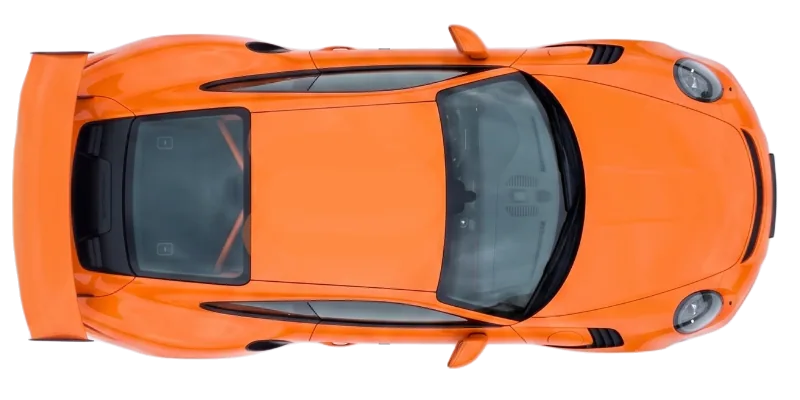
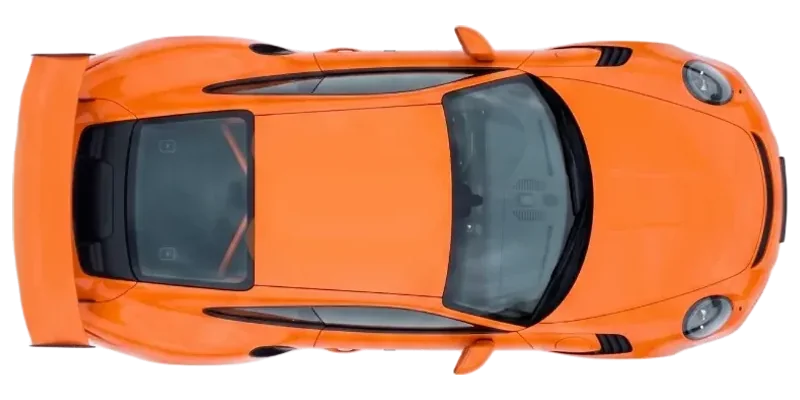
Normalize all vehicle art to the documented 97% rule
The 97%-of-canvas-length rule was documented in js/art.js and the art
spec but never enforced, so the shipped assets drifted from it — car
nose positions ranged 87.9%-99.9% of canvas width. Since the hero light
overlay anchors to the nose, that spread is what made the glows sit
correctly on classic.webp and drift on everything else.

- tools/normalize-car-art.mjs crops to the vehicle, scales to 97% of
  canvas length preserving aspect (boxy vehicles cap at 97% height so
  nothing is ever stretched), and re-centres. --check reports without
  writing, so the spec is now executable rather than prose and a future
  upload can be checked instead of trusted.
- 22 of 54 files were off spec and rewritten; the other 32 were already
  correct and left byte-identical rather than churned through a lossy
  re-encode. Car nose spread tightened to 94%-98.5%.
- Regenerated js/car-art.data.js against the normalized art.

The residual spread is correct rather than leftover drift: capping wide
vehicles on height means a wide car legitimately stops short of 97%
width (the five airtails and classic.webp). That is why the measured
anchors stay load-bearing instead of being replaced by normalization -
the two fixes compose.

WebP quality 85 chosen by measurement, not feel: against a q95 reference
it differs by a mean of 1.0/255 per channel, invisible at the ~130px a
car renders at, while keeping the set at 2.2MB against 2.1MB before. q92
[…]

Changed region(s): [[0.0312, 0.06, 1.0, 0.96], [0.0, 0.21, 0.0312, 0.33], [0.0, 0.36, 0.0312, 0.39]]

diff --git a/js/car-art.data.js b/js/car-art.data.js
@@ -16,7 +16,7 @@ export const CAR_ART_GEOMETRY = {
   'assets/cars/hero-airtail-purple-yellow.webp': { nose: 94.1, tail: 5.9, fTop: 8.8, fBot: 90.3, rTop: 7.8, rBot: 91.8 },
   'assets/cars/hero-airtail-red.webp': { nose: 94, tail: 5.9, fTop: 9, fBot: 90, rTop: 8, rBot: 91.8 },
   'assets/cars/hero-airtail-stripe.webp': { nose: 94, tail: 5.9, fTop: 9, fBot: 90, rTop: 8, rBot: 91.8 },
-  'assets/cars/hero-canopy-green.webp': { nose: 96, tail: 4.3, fTop: 13.5, fBot: 85, rTop: 8.5, rBot: 90 },
+  'assets/cars/hero-canopy-green.webp': { nose: 98.4, tail: 1.5, fTop: 12.3, fBot: 87.8, rTop: 7, rBot: 92.8 },
   'assets/cars/hero-classic-blue-stripe.webp': { nose: 98.4, tail: 1.5, fTop: 8.8, fBot: 90.3, rTop: 11.5, rBot: 88.8 },
   'assets/cars/hero-classic-cream.webp': { nose: 98.4, tail: 1.5, fTop: 13.3, fBot: 87.3, rTop: 13.3, rBot: 87.5 },
   'assets/cars/hero-classic-white-green.webp': { nose: 98.4, tail: 1.5, fTop: 12, fBot: 86.5, rTop: 15.8, rBot: 84 },
@@ -34,34 +34,34 @@ export const CAR_ART_GEOMETRY = {
   'assets/cars/hero-sedan-green.webp': { nose: 98.4, tail: 1.5, fTop: 15.8, fBot: 85.5, rTop: 16, rBot: 85.5 },
   'assets/cars/hero-sports-cyan.webp': { nose: 98.4, tail: 1.5, fTop: 13.3, fBot: 86, rTop: 12.3, rBot: 87.8 },
   'assets/cars/hero-spyder-blue.webp': { nose: 98.4, tail: 1.5, fTop: 11.8, fBot: 88.3, rTop: 11.5, rBot: 88.5 },
-  'assets/cars/library-sedans-1785067674835-12-orange-coupe.webp': { nose: 97.1, tail: 1.5, fTop: 12.5, fBot: 85.3, rTop: 12.5, rBot: 85.5 },
-  'assets/cars/library-sedans-1785067674835-13-red-hatch.webp': { nose: 88.3, tail: 11.6, fTop: 11.8, fBot: 88, rTop: 11.5, rBot: 88.3 },
-  'assets/cars/library-sedans-1785067674835-14-green-hatch.webp': { nose: 87.9, tail: 11.9, fTop: 13, fBot: 87, rTop: 13, rBot: 87 },
+  'assets/cars/library-sedans-1785067674835-12-orange-coupe.webp': { nose: 98.4, tail: 1.5, fTop: 13, fBot: 86.8, rTop: 13, rBot: 87 },
+  'assets/cars/library-sedans-1785067674835-13-red-hatch.webp': { nose: 97.9, tail: 2, fTop: 2.3, fBot: 98, rTop: 2, rBot: 98 },
+  'assets/cars/library-sedans-1785067674835-14-green-hatch.webp': { nose: 98.4, tail: 1.5, fTop: 3, fBot: 97.3, rTop: 3, rBot: 97.3 },
   'assets/cars/library-sedans-1785067674835-15-green-coupe.webp': { nose: 98.4, tail: 1.5, fTop: 12.8, fBot: 87.8, rTop: 19.3, rBot: 81 },
-  'assets/cars/library-sedans-1785067674835-5-rust-weathered.webp': { nose: 96.9, tail: 3, fTop: 16.8, fBot: 84.8, rTop: 17, rBot: 84.5 },
-  'assets/cars/library-sedans-1785067674835-6-police.webp': { nose: 96.9, tail: 3, fTop: 16.8, fBot: 84.8, rTop: 17, rBot: 84.5 },
-  'assets/cars/library-sedans-1785067674835-7-orange-suv.webp': { nose: 97.5, tail: 2.4, fTop: 8.3, fBot: 91.5, rTop: 9.5, rBot: 88.8 },
+  'assets/cars/library-sedans-1785067674835-5-rust-weathered.webp': { nose: 98.4, tail: 1.5, fTop: 15.8, fBot: 85.8, rTop: 16, rBot: 85.5 },
+  'assets/cars/library-sedans-1785067674835-6-police.webp': { nose: 98.4, tail: 1.5, fTop: 15.8, fBot: 85.8, rTop: 16, rBot: 85.5 },
+  'assets/cars/library-sedans-1785067674835-7-orange-suv.webp': { nose: 98.4, tail: 1.5, fTop: 7.5, fBot: 92.3, rTop: 9, rBot: 89.5 },
   'assets/cars/traffic-sedan-13.webp': { nose: 98.3, tail: 1.6, fTop: 16.5, fBot: 83.5, rTop: 15.8, rBot: 84 },
   'assets/cars/traffic-sedan-25.webp': { nose: 98.4, tail: 1.5, fTop: 14.2, fBot: 83.8, rTop: 14, rBot: 84 },
   'assets/cars/traffic-sedan-28.webp': { nose: 98.4, tail: 1.5, fTop: 14.2, fBot: 83.8, rTop: 14, rBot: 84 },
   'assets/cars/traffic-sedan-6.webp': { nose: 98.3, tail: 1.6, fTop: 9.8, fBot: 89.5, rTop: 9, rBot: 90.3 },
   'assets/cars/traffic-sedan-7.webp': { nose: 98.3, tail: 1.6, fTop: 13, fBot: 86.8, rTop: 13.3, rBot: 85.8 },
-  'assets/cars/traffic-sedan-new-lightblue.webp': { nose: 96.8, tail: 3.1, fTop: 19, fBot: 81.3, rTop: 18.3, rBot: 81.5 },
-  'assets/cars/traffic-truck-1.webp': { nose: 99.9, tail: 0, fTop: 5.8, fBot: 90.8, rTop: 0, rBot: 99.8 },
-  'assets/cars/traffic-truck-2.webp': { nose: 99.9, tail: 0, fTop: 5, fBot: 94, rTop: 0, rBot: 99.3 },
-  'assets/cars/traffic-truck-3.webp': { nose: 99.8, tail: 0, fTop: 0.5, fBot: 98.8, rTop: 8.8, rBot: 91 },
-  'assets/cars/traffic-truck-4.webp': { nose: 99.9, tail: 0.1, fTop: 9.5, fBot: 93.5, rTop: 15.5, rBot: 86 },
-  'assets/cars/traffic-truck-5.webp': { nose: 99.9, tail: 0, fTop: 0, fBot: 99.8, rTop: 8.3, rBot: 92 },
-  'assets/cars/traffic-truck-6.webp': { nose: 99.8, tail: 0, fTop: 36.3, fBot: 64.8, rTop: 3.5, rBot: 97.3 },
-  'assets/cars/traffic-truck-7.webp': { nose: 99.9, tail: 0, fTop: 42.8, fBot: 56.8, rTop: 3.5, rBot: 96 },
-  'assets/cars/traffic-truck-8.webp': { nose: 99.9, tail: 0.4, fTop: 20.8, fBot: 78, rTop: 4, rBot: 95.3 },
+  'assets/cars/traffic-sedan-new-lightblue.webp': { nose: 98.4, tail: 1.5, fTop: 18.3, fBot: 82.5, rTop: 17.5, rBot: 83 },
+  'assets/cars/traffic-truck-1.webp': { nose: 98.4, tail: 1.5, fTop: 7, fBot: 89.5, rTop: 1.5, rBot: 98.3 },
+  'assets/cars/traffic-truck-2.webp': { nose: 98.4, tail: 1.5, fTop: 6.5, fBot: 92.8, rTop: 1.5, rBot: 97.8 },
+  'assets/cars/traffic-truck-3.webp': { nose: 98.4, tail: 1.5, fTop: 2.3, fBot: 97.5, rTop: 10.3, rBot: 90 },
+  'assets/cars/traffic-truck-4.webp': { nose: 98.4, tail: 1.6, fTop: 10.8, fBot: 92.3, rTop: 16.5, rBot: 85 },
+  'assets/cars/traffic-truck-5.webp': { nose: 98.4, tail: 1.5, fTop: 1.5, fBot: 98.3, rTop: 9.5, rBot: 90.8 },
+  'assets/cars/traffic-truck-6.webp': { nose: 98.4, tail: 1.6, fTop: 36.8, fBot: 64.3, rTop: 4.8, rBot: 96 },
+  'assets/cars/traffic-truck-7.webp': { nose: 98.4, tail: 1.5, fTop: 43, fBot: 56.8, rTop: 4.8, rBot: 94.8 },
+  'assets/cars/traffic-truck-8.webp': { nose: 98.3, tail: 1.6, fTop: 21.5, fBot: 77, rTop: 5.3, rBot: 93.8 },
   'assets/cars/traffic-truck-new-rusty.webp': { nose: 98.4, tail: 1.5, fTop: 5.5, fBot: 94.3, rTop: 6, rBot: 95 },
-  'assets/cars/traffic-truck-new-white.webp': { nose: 97, tail: 2.9, fTop: 5.3, fBot: 94.5, rTop: 6.5, rBot: 93.3 },
+  'assets/cars/traffic-truck-new-white.webp': { nose: 95.6, tail: 4.3, fTop: 6.8, fBot: 93.3, rTop: 7.8, rBot: 92 },
   'assets/cars/traffic-truck-new.webp': { nose: 98.4, tail: 1.5, fTop: 10.3, fBot: 88, rTop: 10.3, rBot: 88 },
-  'assets/cars/truck-flatbed-green.webp': { nose: 97.1, tail: 3, fTop: 4.3, fBot: 95.5, rTop: 13.3, rBot: 87.5 },
-  'assets/cars/truck-mixer-cream.webp': { nose: 94.2, tail: 5.7, fTop: 10.3, fBot: 89.5, rTop: 3.5, rBot: 96.3 },
-  'assets/cars/truck-offroad-pickup-grey.webp': { nose: 91.8, tail: 8.1, fTop: 3, fBot: 96.5, rTop: 3, rBot: 96.5 },
-  'assets/cars/truck-panel-orange.webp': { nose: 97.3, tail: 2.7, fTop: 3, fBot: 96.8, rTop: 4.3, rBot: 92.3 },
+  'assets/cars/truck-flatbed-green.webp': { nose: 98.4, tail: 1.5, fTop: 3, fBot: 97, rTop: 12.3, rBot: 88.8 },
+  'assets/cars/truck-mixer-cream.webp': { nose: 96.2, tail: 3.9, fTop: 8.8, fBot: 91.3, rTop: 1.5, rBot: 98.3 },
+  'assets/cars/truck-offroad-pickup-grey.webp': { nose: 90.6, tail: 9.3, fTop: 4.5, fBot: 95, rTop: 4.3, rBot: 95 },
+  'assets/cars/truck-panel-orange.webp': { nose: 98.4, tail: 1.5, fTop: 2, fBot: 98, rTop: 3.3, rBot: 93.5 },
   'assets/cars/truck-rollback-orange.webp': { nose: 93.2, tail: 6.8, fTop: 6.5, fBot: 96.8, rTop: 1.5, rBot: 98.3 },
-  'assets/cars/truck-tanker-steel.webp': { nose: 98.9, tail: 1, fTop: 18.8, fBot: 83.8, rTop: 14.5, rBot: 85.5 },
+  'assets/cars/truck-tanker-steel.webp': { nose: 98.4, tail: 1.5, fTop: 19, fBot: 83.3, rTop: 14.8, rBot: 85 },
 };

diff --git a/docs/HEIST-PLAN.md b/docs/HEIST-PLAN.md
@@ -171,9 +171,28 @@ keep the free equip), not *which car a mission uses*.
   corners rather than its baked lamps: locating the lamps themselves was
   attempted twice (absolute brightness, then a per-car brightness
   percentile) and abandoned — both pick up the whole panel on white and
-  cream bodies. **The underlying data problem is still open**: several
-  shipped assets aren't normalized to the documented 97% rule, and
-  re-exporting them to spec would let one geometry serve everything.
+  cream bodies.
+- **The art itself is now normalized to the 97% rule**
+  (`tools/normalize-car-art.mjs`, `--check` reports without writing). That
+  rule was documented but never enforced, which is what let the assets
+  drift in the first place; it's now executable, so a future upload can be
+  checked rather than trusted. 22 of 54 files were off spec and were
+  re-cropped, rescaled and re-centred; the other 32 were already correct
+  and left byte-identical rather than churned through a lossy re-encode.
+  Car nose positions tightened from 87.9%–99.9% to 94%–98.5%.
+  *(The residual spread is correct, not leftover drift: the spec caps
+  boxy/wide vehicles at 97% HEIGHT rather than length so nothing is ever
+  stretched, so a wide car legitimately stops short of 97% width — the
+  five airtails and classic.webp all sit there. That's exactly why the
+  measured-anchor system above stays load-bearing rather than being
+  replaced by normalization; the two compose.)*
+  WebP quality 85 was chosen by measurement: against a q95 reference it
+  differs by a mean of 1.0/255 per channel — invisible at the ~130px a car
+  actually renders at — while keeping the asset set at 2.2MB against 2.1MB
+  before, so the whole pass is roughly size-neutral. q92 cost +25% total
+  size for a difference measuring 0.4/255. `classic.webp` sat 0.5% off
+  spec and was deliberately left alone: it's the most-seen asset in the
+  game and re-encoding it for half a percent is pure loss.
   *(Fixed alongside this: `skinFor()` returned `car.skin` verbatim, which
   never actually contained the photo — `photo` lives one level up, on the
   car itself. Completely invisible until now because every car shipped
